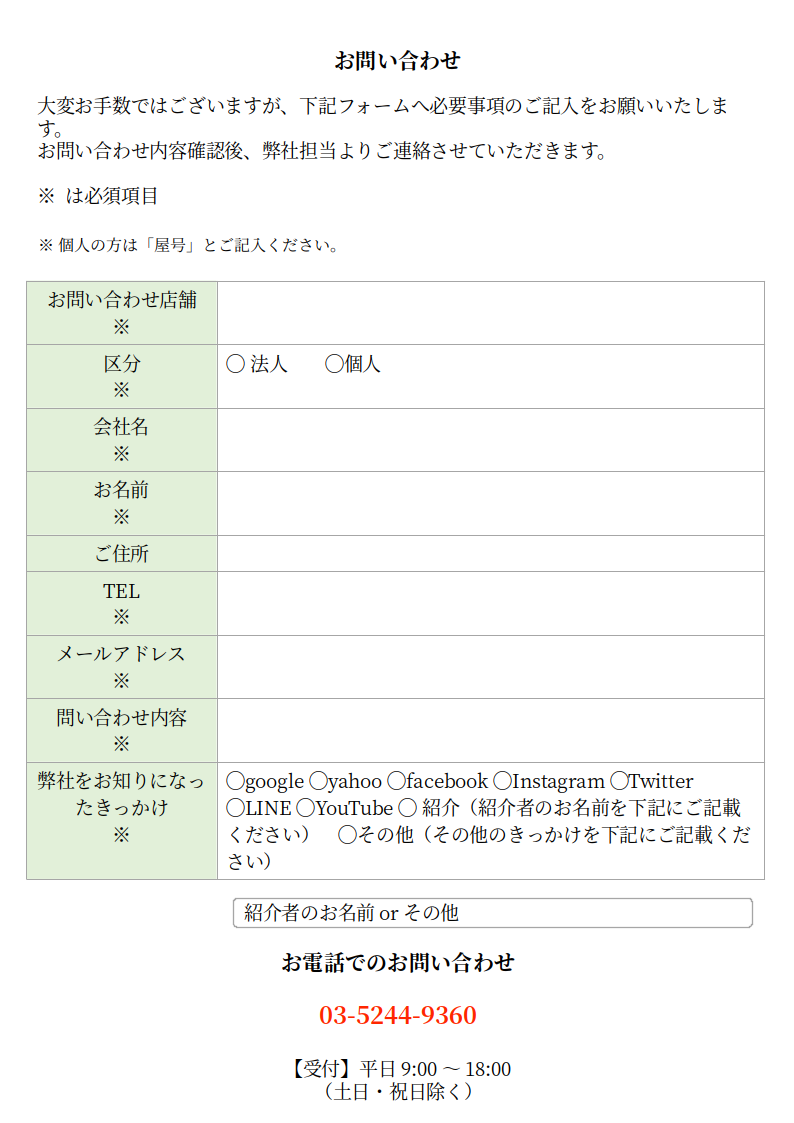
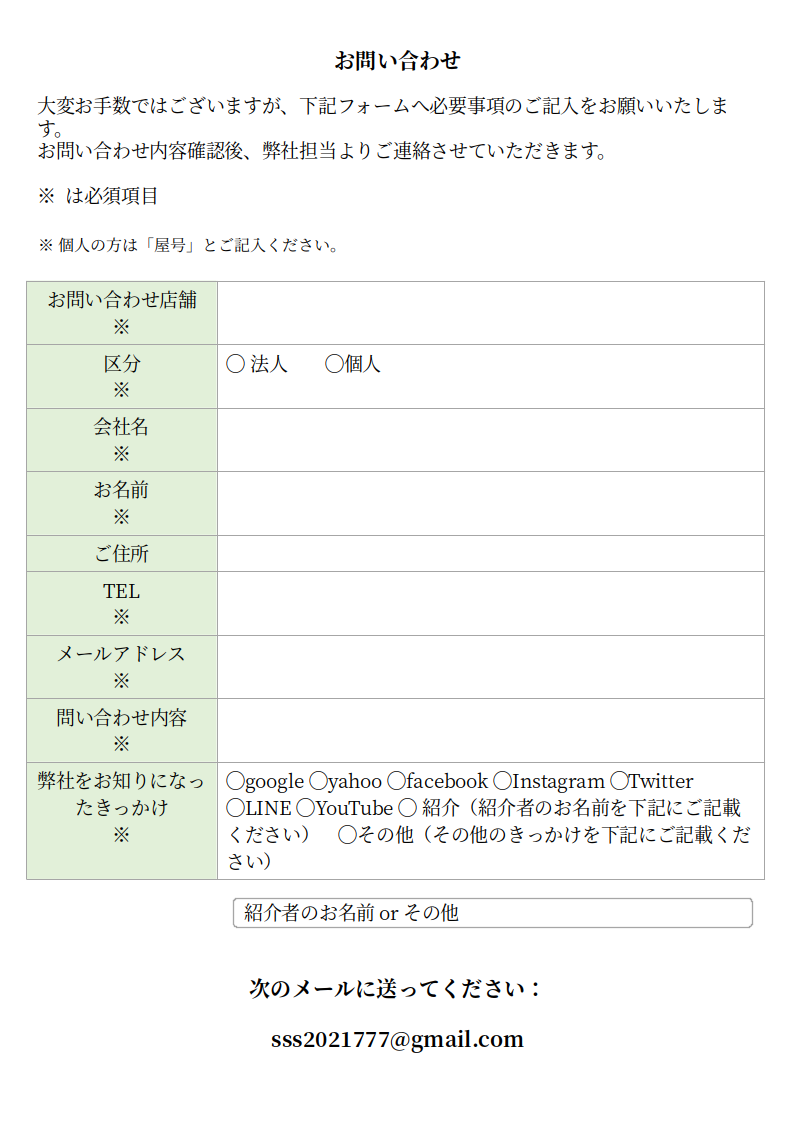
asami changes v

Changed region(s): [[0.3023, 0.8415, 0.665, 0.9973]]

diff --git a/_posts/2020-01-24-formJP.html b/_posts/2020-01-24-formJP.html
@@ -8,3 +8,4 @@ date: 2020-01-24 22:45:13 -0400
 background: '/img/posts/02.jpg'
 ---
 <img class="img-fluid" src="/img/chart1.png" alt="recommend chart">
+<a style="display: block; text-align: center;" href="/assets/submission-form.pptx" download="お問い合わせ">こちらからフォームをダウンロードしてください</a>

diff --git a/_layouts/homeCN.html b/_layouts/homeCN.html
@@ -89,7 +89,7 @@ layout: defaultCN
                 <br>
 
                 <div class="address">
-                    <h1 lang="jp">東京都港区</h1>
+                    <h1 lang="jp">住所：東京都港区芝浦3丁目</h1>
                 </div>
 
                 <!-- Pager -->

diff --git a/_layouts/home.html b/_layouts/home.html
@@ -89,7 +89,7 @@ layout: default
         <br>
 
         <div class="address">
-          <h1 lang="jp">東京都港区</h1>
+          <h1 lang="jp">住所：東京都港区芝浦3丁目</h1>
         </div>
 
         <!-- Pager -->
